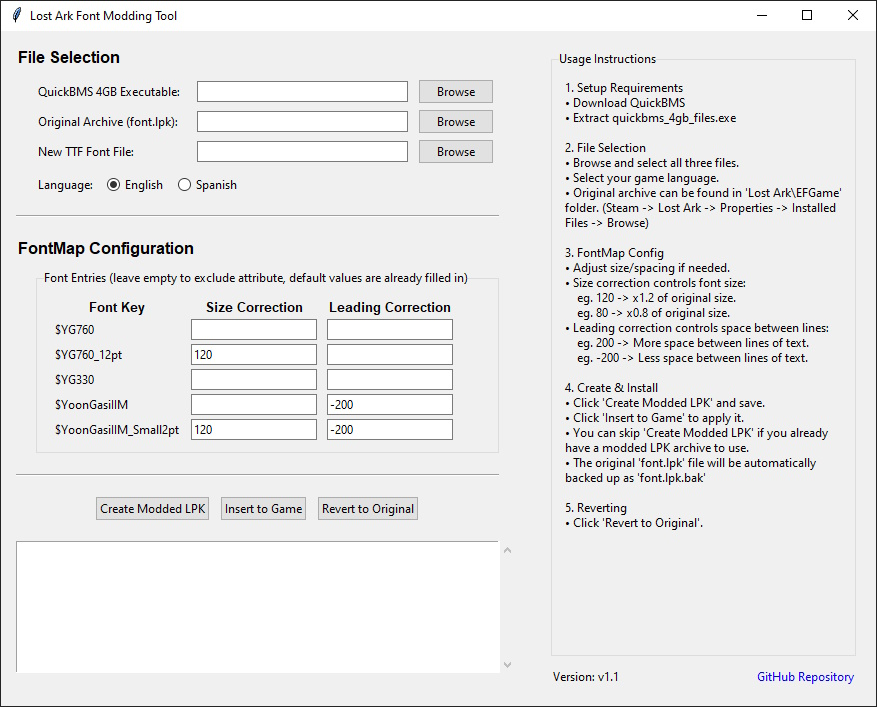
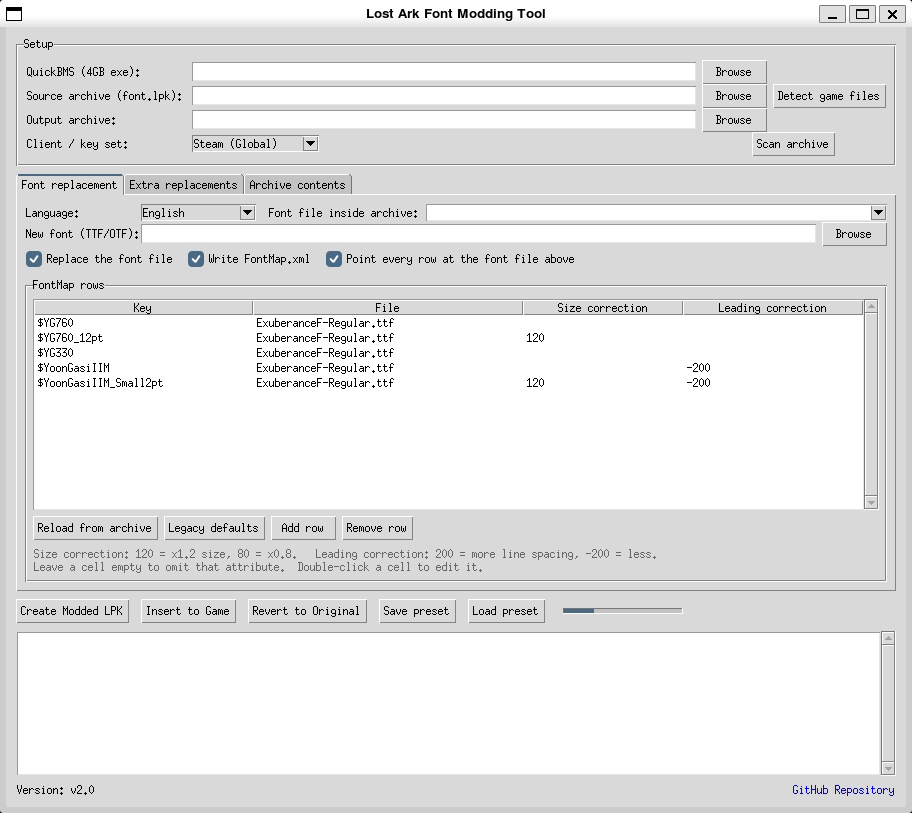
Update README, improve error handling, and enhance dependency management

Changed region(s): [[0.0, 0.0, 1.0, 1.0], [0.4926, 0.5912, 0.5234, 0.6223]]

diff --git a/src/loa_font_tool/gameinstall.py b/src/loa_font_tool/gameinstall.py
@@ -2,31 +2,37 @@
 
 from __future__ import annotations
 
+import contextlib
 import ctypes
 import hashlib
 import json
 import os
 import re
 import shutil
+from collections.abc import Callable
 from pathlib import Path
-from typing import Callable, Optional
 
 GAME_FOLDER = "Lost Ark"
 
 
 def is_admin() -> bool:
     try:
+        # pyrefly: ignore[missing-attribute]
         return bool(ctypes.windll.shell32.IsUserAnAdmin())
-    except Exception:
+    except (AttributeError, OSError):
         return False
 
 
 def _steam_libraries() -> list[Path]:
     libs: list[Path] = []
-    try:
+    with contextlib.suppress(ImportError, OSError):
         import winreg
 
-        with winreg.OpenKey(winreg.HKEY_CURRENT_USER, r"Software\Valve\Steam") as k:
+        with winreg.OpenKey(  # pyrefly: ignore[missing-attribute]
+            winreg.HKEY_CURRENT_USER,  # pyrefly: ignore[missing-attribute]
+            r"Software\Valve\Steam",
+        ) as k:
+            # pyrefly: ignore[missing-attribute]
             steam = Path(winreg.QueryValueEx(k, "SteamPath")[0])
         libs.append(steam)
         vdf = steam / "steamapps" / "libraryfolders.vdf"
@@ -36,14 +42,12 @@ def _steam_libraries() -> list[Path]:
                 Path(m.replace("\\\\", "\\"))
                 for m in re.findall(r'"path"\s+"([^"]+)"', text)
             ]
-    except Exception:
-        pass
     pf = os.environ.get("ProgramFiles(x86)", r"C:\Program Files (x86)")
     libs.append(Path(pf) / "Steam")
     return libs
 
 
-def find_game_dir() -> Optional[Path]:
+def find_game_dir() -> Path | None:
     seen = set()
     for lib in _steam_libraries():
         d = lib / "steamapps" / "common" / GAME_FOLDER / "EFGame"
@@ -70,14 +74,14 @@ def _paths(game_dir: Path):
     )
 
 
-def _recorded_hash(info: Path) -> Optional[str]:
+def _recorded_hash(info: Path) -> str | None:
     try:
         return json.loads(info.read_text())["mod_sha256"]
-    except Exception:
+    except (OSError, ValueError, KeyError, TypeError):
         return None
 
 
-def current_is_modded(game_dir: Path, scan_result: Optional[bool]) -> Optional[bool]:
+def current_is_modded(game_dir: Path, scan_result: bool | None) -> bool | None:
     """True/False if known; None if undeterminable. scan_result comes from inspecting
     the archive's entry names (lpk.is_modded)."""
     font, _, info = _paths(game_dir)
@@ -90,7 +94,7 @@ def current_is_modded(game_dir: Path, scan_result: Optional[bool]) -> Optional[b
 
 
 def install(
-    mod: Path, game_dir: Path, modded_now: Optional[bool], log: Callable[[str], None]
+    mod: Path, game_dir: Path, modded_now: bool | None, log: Callable[[str], None]
 ) -> None:
     font, bak, info = _paths(game_dir)
     if not font.exists():

diff --git a/src/loa_font_tool/lpk.py b/src/loa_font_tool/lpk.py
@@ -11,9 +11,9 @@ import shutil
 import subprocess
 import sys
 import tempfile
+from collections.abc import Callable, Sequence
 from dataclasses import dataclass
 from pathlib import Path
-from typing import Callable, Sequence, Union
 
 
 class LpkError(RuntimeError):
@@ -270,7 +270,7 @@ def norm(path: str) -> str:
 
 
 _LINE = re.compile(r"^\s*([0-9a-fA-F]{16})\s+(\d+)\s+(\S.*?)\s*$")
-_COUNT = re.compile(r"(\d+)\s+files?\s+found", re.I)
+_COUNT = re.compile(r"(\d+)\s+files?\s+found", re.IGNORECASE)
 
 
 def parse_listing(text: str) -> list[Entry]:
@@ -308,7 +308,7 @@ def is_modded(entries: Sequence[Entry]) -> bool:
 
 # QuickBMS wrapper
 
-Source = Union[Path, bytes]
+Source = Path | bytes
 
 
 class QuickBMS:
@@ -342,6 +342,7 @@ class QuickBMS:
                 errors="replace",
                 stdin=subprocess.DEVNULL,
                 timeout=600,
+                check=False,
                 creationflags=flags,
             )
         except FileNotFoundError:

diff --git a/src/loa_font_tool/ui.py b/src/loa_font_tool/ui.py
@@ -2,6 +2,7 @@ import json
 import tkinter as tk
 import webbrowser
 from tkinter import ttk
+from typing import Any, cast
 
 from . import lpk
 
@@ -336,7 +337,8 @@ class AppUI:
     def _contents_dblclick(self, event):
         row = self.contents.identify_row(event.y)
         if row:
-            self.ctl.extra_entry.set(self.contents.item(row, "values")[2])
+            values = cast(tuple[Any, ...], self.contents.item(row, "values"))
+            self.ctl.extra_entry.set(values[2])
             self.notebook.select(self.extra_tab)
 
     # fontmap table
@@ -392,7 +394,7 @@ class AppUI:
         return [
             {"entry": str(v[0]), "file": str(v[1])}
             for v in (
-                self.extra_tree.item(i, "values")
+                cast(tuple[Any, ...], self.extra_tree.item(i, "values"))
                 for i in self.extra_tree.get_children()
             )
         ]

diff --git a/src/loa_font_tool/main.py b/src/loa_font_tool/main.py
@@ -10,7 +10,7 @@ def main():
         root = tk.Tk()
         FontModdingTool(root)
         root.mainloop()
-    except Exception as e:
+    except Exception as e:  # noqa: BLE001
         traceback.print_exc()
         messagebox.showerror(
             "Fatal Error", f"An unexpected error occurred on startup:\n{e}"

diff --git a/src/loa_font_tool/app.py b/src/loa_font_tool/app.py
@@ -601,6 +601,6 @@ class FontModdingTool:
     def on_close(self):
         try:
             config.save(self._snapshot())
-        except Exception:
-            pass
+        except OSError as e:
+            self.log(f"Could not save settings: {e}")
         self.root.destroy()

diff --git a/src/loa_font_tool/config.py b/src/loa_font_tool/config.py
@@ -13,7 +13,7 @@ def default_path() -> Path:
 def load(path=None) -> dict:
     try:
         return json.loads(Path(path or default_path()).read_text(encoding="utf-8"))
-    except Exception:
+    except (OSError, ValueError):
         return {}
 
 

diff --git a/src/loa_font_tool/__init__.py b/src/loa_font_tool/__init__.py
@@ -1,0 +1,1 @@
+"""Lost Ark font modding tool."""

diff --git a/README.md b/README.md
@@ -1,3 +1,20 @@
+<div align="center">
+
+# THIS PROJECT IS RETIRED
+
+## A newer, actively maintained version is available now:
+
+# [**LOAFONT-RS**](https://github.com/TanByv/loafont-rs)
+
+### [Download the latest release](https://github.com/TanByv/loafont-rs/releases/latest)
+
+</div>
+
+> [!WARNING]
+> This repository is no longer maintained and will not receive further updates.
+> Please use [loafont-rs](https://github.com/TanByv/loafont-rs) instead. The
+> documentation below is kept only as a reference for the legacy Python version.
+
 # Lost Ark Font Modding Tool
 
 A small GUI utility for patching the Lost Ark font.lpk archive and replacing the default game font with a custom TrueType font. It is intended for the English and Spanish builds and can create a modded archive, install it into the game, and restore the original backup when needed.
@@ -25,6 +42,21 @@ A small GUI utility for patching the Lost Ark font.lpk archive and replacing the
 - Python 3.13 or newer for running from source
 - QuickBMS executable for the archive patching step
 - A Windows installation of Lost Ark with an EFGame folder containing font.lpk
+
+## Windows executable
+
+A standalone `LOA-Font-Tool.exe` is built with PyInstaller. Pushing a `v*` tag
+runs the [release workflow](.github/workflows/build-release.yml), uploads the
+executable as a workflow artifact, and attaches it to the GitHub release.
+
+To build the executable locally on Windows:
+
+```powershell
+uv sync --group dev
+uv run pyinstaller --noconfirm --clean --onefile --windowed --name LOA-Font-Tool --paths src run.py
+```
+
+The executable is written to `dist\LOA-Font-Tool.exe`.
 
 ## Running from source
 
